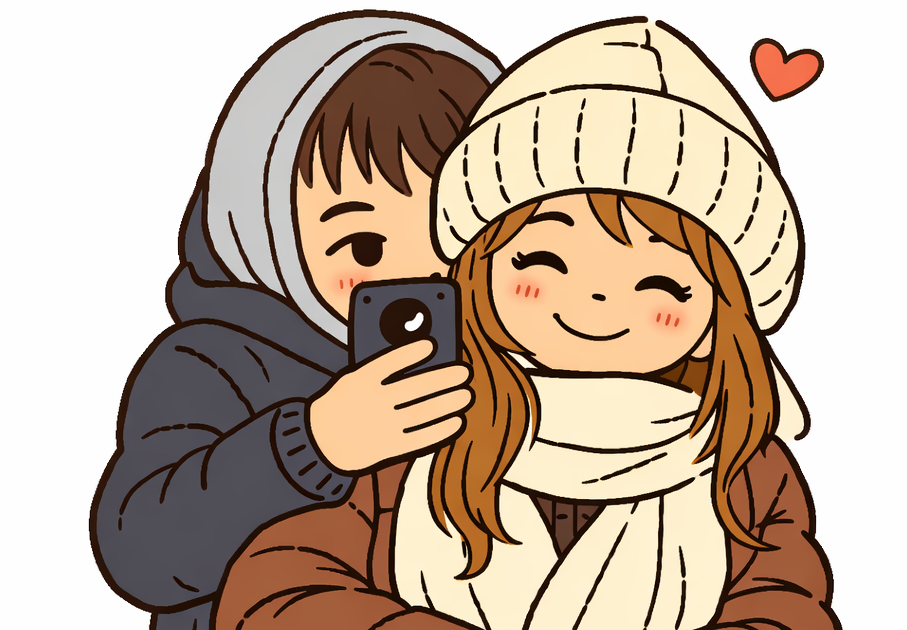
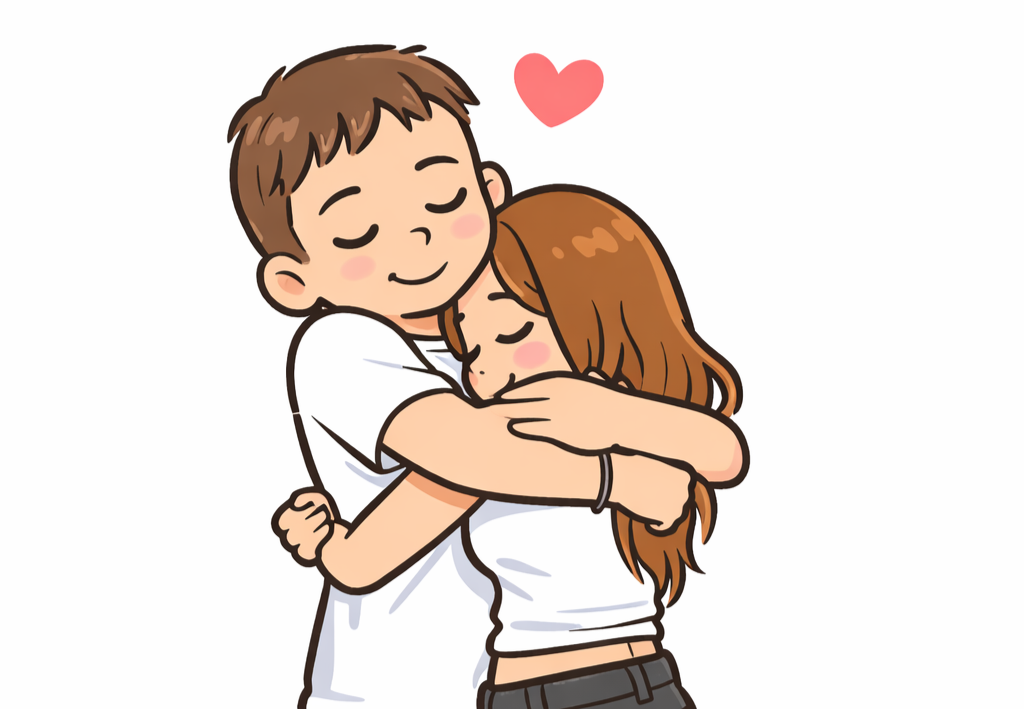
Add spring theme and reminders page with personal messages
Made-with: Cursor

diff --git a/style.css b/style.css
@@ -7,16 +7,16 @@
 }
 
 :root {
-  --cream: #fdf8f3;
-  --paper: #faf5ef;
-  --paper-envelope: #f5ebe3;
-  --ink: #3d2c29;
-  --ink-soft: #6b534e;
-  --accent: #c97b84;
-  --accent-light: #e8b4bc;
-  --shadow: rgba(61, 44, 41, 0.08);
-  --shadow-strong: rgba(61, 44, 41, 0.12);
-  --envelope-border: rgba(61, 44, 41, 0.14);
+  --cream: #f2fbf4;
+  --paper: #ebf8ee;
+  --paper-envelope: #d8f0dc;
+  --ink: #1e3d1e;
+  --ink-soft: #426042;
+  --accent: #5aab5a;
+  --accent-light: #b8e4b8;
+  --shadow: rgba(30, 61, 30, 0.08);
+  --shadow-strong: rgba(30, 61, 30, 0.12);
+  --envelope-border: rgba(30, 61, 30, 0.15);
 }
 
 html {
@@ -31,8 +31,9 @@ body {
   color: var(--ink);
   background: var(--cream);
   background-image:
-    radial-gradient(ellipse 120% 80% at 50% 0%, var(--accent-light) 0%, transparent 50%),
-    radial-gradient(ellipse 80% 50% at 80% 90%, rgba(201, 123, 132, 0.15) 0%, transparent 50%);
+    radial-gradient(ellipse 120% 70% at 50% 0%, #c8efd4 0%, transparent 55%),
+    radial-gradient(ellipse 70% 50% at 10% 100%, rgba(90, 171, 90, 0.15) 0%, transparent 50%),
+    radial-gradient(ellipse 60% 40% at 95% 85%, rgba(255, 220, 80, 0.13) 0%, transparent 50%);
   display: flex;
   align-items: center;
   justify-content: center;
@@ -102,8 +103,21 @@ body {
   width: 200px;
   height: 130px;
   margin-bottom: 2rem;
-  filter: drop-shadow(0 8px 24px rgba(61, 44, 41, 0.18));
+  filter: drop-shadow(0 8px 24px rgba(30, 61, 30, 0.18));
 }
+
+.closed-envelope::before,
+.closed-envelope::after {
+  content: '🌿';
+  position: absolute;
+  font-size: 1.1rem;
+  opacity: 0.55;
+  pointer-events: none;
+  bottom: 0.3rem;
+}
+
+.closed-envelope::before { left: -1.4rem; transform: rotate(20deg); }
+.closed-envelope::after  { right: -1.4rem; transform: rotate(-20deg) scaleX(-1); }
 
 .closed-envelope-body {
   position: absolute;
@@ -111,7 +125,7 @@ body {
   left: 0;
   right: 0;
   height: 100px;
-  background: linear-gradient(160deg, #faf2eb 0%, var(--paper-envelope) 50%, #ede0d4 100%);
+  background: linear-gradient(160deg, #e8f8ea 0%, var(--paper-envelope) 50%, #c4e8c8 100%);
   border: 1px solid var(--envelope-border);
   border-bottom: none;
   border-radius: 8px 8px 0 0;
@@ -129,20 +143,20 @@ body {
   height: 0;
   border-left: 100px solid transparent;
   border-right: 100px solid transparent;
-  border-top: 55px solid #ede0d4;
-  filter: drop-shadow(0 3px 10px rgba(61, 44, 41, 0.15));
+  border-top: 55px solid #c4e8c8;
+  filter: drop-shadow(0 3px 10px rgba(30, 61, 30, 0.15));
   box-sizing: content-box;
 }
 
 .closed-envelope-flap::before {
-  content: '♥';
+  content: '🌿';
   position: absolute;
   top: -48px;
   left: 50%;
   transform: translateX(-50%);
   font-size: 1.25rem;
   color: var(--accent);
-  text-shadow: 0 1px 2px rgba(201, 123, 132, 0.4);
+  text-shadow: 0 1px 2px rgba(90, 171, 90, 0.4);
 }
 
 .step-1-text {
@@ -164,13 +178,13 @@ body {
   border-radius: 999px;
   padding: 0.75rem 2rem;
   cursor: pointer;
-  box-shadow: 0 4px 20px rgba(201, 123, 132, 0.35);
+  box-shadow: 0 4px 20px rgba(90, 171, 90, 0.35);
   transition: transform 0.2s ease, box-shadow 0.2s ease;
 }
 
 .btn-next:hover {
   transform: translateY(-2px);
-  box-shadow: 0 6px 24px rgba(201, 123, 132, 0.45);
+  box-shadow: 0 6px 24px rgba(90, 171, 90, 0.45);
 }
 
 .btn-next:active {
@@ -262,11 +276,32 @@ body {
   display: none;
 }
 
-/* Кнопка «Свернуть в конверт» (шаг 3) */
-.letter-back-wrap {
-  text-align: center;
+/* Кнопки внизу письма (шаг 3) */
+.letter-actions {
+  display: flex;
+  flex-direction: column;
+  align-items: center;
+  gap: 0.25rem;
   margin-top: 1.25rem;
-  margin-bottom: 0;
+}
+
+.btn-open-when {
+  font-family: 'Cormorant Garamond', serif;
+  font-size: 1.05rem;
+  font-style: italic;
+  font-weight: 600;
+  color: var(--accent);
+  background: none;
+  border: 1.5px solid var(--accent-light);
+  border-radius: 999px;
+  padding: 0.5rem 1.4rem;
+  cursor: pointer;
+  transition: background 0.2s ease, color 0.2s ease;
+}
+
+.btn-open-when:hover {
+  background: var(--accent-light);
+  color: var(--ink);
 }
 
 .btn-back {
@@ -461,6 +496,76 @@ body {
 @keyframes pulse {
   0%, 100% { transform: scale(1); opacity: 1; }
   50% { transform: scale(1.15); opacity: 0.85; }
+}
+
+/* =====================================================
+   ШАГ 4: НАПОМИНАЛКИ
+   ===================================================== */
+
+.step-4.is-visible {
+  display: flex;
+  flex-direction: column;
+  align-items: center;
+  justify-content: center;
+  min-height: 60vh;
+  text-align: center;
+}
+
+.reminders-page {
+  display: flex;
+  flex-direction: column;
+  align-items: center;
+  gap: 1.5rem;
+  width: 100%;
+  padding: 1rem 0;
+}
+
+.reminder-card {
+  width: 100%;
+  min-height: 160px;
+  background: var(--paper);
+  border-radius: 14px;
+  border: 1px solid var(--envelope-border);
+  box-shadow: 0 6px 28px var(--shadow);
+  display: flex;
+  align-items: center;
+  justify-content: center;
+  padding: 2rem 1.75rem;
+}
+
+.reminder-text {
+  font-family: 'Cormorant Garamond', serif;
+  font-size: 1.35rem;
+  font-style: italic;
+  line-height: 1.6;
+  color: var(--ink);
+  transition: opacity 0.3s ease;
+}
+
+.reminder-text.is-fading {
+  opacity: 0;
+}
+
+.btn-reminder-next {
+  font-family: 'Nunito', sans-serif;
+  font-size: 0.95rem;
+  font-weight: 600;
+  color: var(--ink-soft);
+  background: none;
+  border: 1.5px solid var(--envelope-border);
+  border-radius: 999px;
+  padding: 0.5rem 1.4rem;
+  cursor: pointer;
+  transition: border-color 0.2s, color 0.2s;
+}
+
+.btn-reminder-next:hover {
+  border-color: var(--accent);
+  color: var(--accent);
+}
+
+#btn-back-from-ow {
+  margin-top: 0.25rem;
 }
 
 /* Адаптив */

diff --git a/script.js b/script.js
@@ -70,13 +70,13 @@
           var word = (n % 10 === 1 && n % 100 !== 11) ? 'раз' : (n % 10 >= 2 && n % 10 <= 4 && (n % 100 < 10 || n % 100 >= 20)) ? 'раза' : 'раз';
           el.textContent = 'Ты открыла это письмо ' + n + ' ' + word;
         }
-        if (activeTheme) launchConfetti();
+        launchConfetti();
       }
     }
   }
 
   function launchConfetti() {
-    var petals = ['🌸', '🌷', '🌼', '🌺', '✿'];
+    var petals = (activeTheme && activeTheme.floatSymbols) ? activeTheme.floatSymbols : ['🌿', '🍃', '🌼', '☀', '🦋'];
     for (var i = 0; i < 32; i++) {
       (function () {
         var petal = document.createElement('span');
@@ -101,6 +101,62 @@
   if (btnBack) {
     btnBack.addEventListener('click', function () {
       goToStep('1');
+    });
+  }
+
+  var btnBackFromOw = document.getElementById('btn-back-from-ow');
+  if (btnBackFromOw) {
+    btnBackFromOw.addEventListener('click', function () {
+      goToStep('3');
+    });
+  }
+
+  // =====================================================
+  // Напоминалки (шаг 4) — ✏ ТЕКСТЫ МОЖНО МЕНЯТЬ ЗДЕСЬ
+  // =====================================================
+  var REMINDERS = [
+    'Я горжусь тобой. Правда.',
+    'Мне нравится всё в тебе.',
+    'Я всегда рядом. Даже на расстоянии.',
+    'Помни - я люблю тебя! Очень-очень сильно.',
+    'Ты важна. Для меня - особенно.',
+    'Ты самая прекрасная, красивая, симпатичная, обворожаблная',
+    'Ты - самое яркое, милое, чудесное солнышко в моей жизни.',
+    'Я в тебя верю. Всегда.',
+    'Ты делаешь мою жизнь лучше. Спасибо.',
+    'Хочу обнять тебя прямо сейчас.',
+    'Очень скучаю по тебе.',
+    'Дорожу тобой и ценю.',
+    'Я очень рад и по настоящему счастлив, что ты есть у меня.',
+  ];
+
+  var reminderEl = document.getElementById('reminder-text');
+  var btnNext = document.getElementById('btn-reminder-next');
+  var reminderIdx = 0;
+
+  function showReminder(idx) {
+    if (!reminderEl) return;
+    reminderEl.classList.add('is-fading');
+    setTimeout(function () {
+      reminderEl.textContent = REMINDERS[idx % REMINDERS.length];
+      reminderEl.classList.remove('is-fading');
+    }, 280);
+  }
+
+  // Показываем первую при переходе на шаг 4
+  var origGoToStep = goToStep;
+  goToStep = function (nextStep) {
+    origGoToStep(nextStep);
+    if (nextStep === '4') {
+      reminderIdx = Math.floor(Math.random() * REMINDERS.length);
+      if (reminderEl) reminderEl.textContent = REMINDERS[reminderIdx];
+    }
+  };
+
+  if (btnNext) {
+    btnNext.addEventListener('click', function () {
+      reminderIdx = (reminderIdx + 1) % REMINDERS.length;
+      showReminder(reminderIdx);
     });
   }
 
@@ -160,8 +216,8 @@
   // Рисуем символы на фоне (сердечки или цветочки — зависит от темы)
   var container = document.querySelector('.hearts');
   if (container) {
-    var symbols = (activeTheme && activeTheme.floatSymbols) ? activeTheme.floatSymbols : ['♥'];
-    var count = (activeTheme && activeTheme.floatCount) ? activeTheme.floatCount : 28;
+    var symbols = (activeTheme && activeTheme.floatSymbols) ? activeTheme.floatSymbols : ['🌿', '🍃', '🌱', '🌼', '☀', '🦋'];
+    var count = (activeTheme && activeTheme.floatCount) ? activeTheme.floatCount : 32;
     for (var i = 0; i < count; i++) {
       var heart = document.createElement('span');
       heart.className = 'heart-float';

diff --git a/index.html b/index.html
@@ -7,7 +7,7 @@
   <link rel="icon" href="favicon.svg" type="image/svg+xml">
   <link rel="apple-touch-icon" href="favicon.svg">
   <link rel="manifest" href="manifest.json">
-  <meta name="theme-color" content="#c97b84">
+  <meta name="theme-color" content="#5aab5a">
   <link rel="preconnect" href="https://fonts.googleapis.com">
   <link rel="preconnect" href="https://fonts.gstatic.com" crossorigin>
   <link href="https://fonts.googleapis.com/css2?family=Cormorant+Garamond:ital,wght@0,400;0,600;1,400&family=Nunito:wght@300;400;600&display=swap" rel="stylesheet">
@@ -60,7 +60,7 @@
 
         <section class="message">
           <p>
-            Я сделал для тебя эту страничку — маленький подарок, который всегда будет в интернете.
+            Я сделал для тебя эту страничку - маленький подарок, который всегда будет в интернете.
           </p>
           <p>
             Ты делаешь каждый мой день теплее. Спасибо, что ты есть.
@@ -76,10 +76,26 @@
         </footer>
       </div>
     </div>
-      <p class="letter-back-wrap">
+      <div class="letter-actions">
+        <button type="button" class="btn-open-when" data-next="4">и ещё кое-что →</button>
         <button type="button" class="btn-back" id="btn-back-to-envelope">Свернуть в конверт</button>
-      </p>
+      </div>
     </div>
+
+    <!-- Шаг 4: Напоминалки -->
+    <div class="step step-4" data-step="4">
+      <div class="reminders-page">
+
+        <div class="reminder-card">
+          <p class="reminder-text" id="reminder-text"></p>
+        </div>
+
+        <button type="button" class="btn-reminder-next" id="btn-reminder-next">ещё →</button>
+
+        <button type="button" class="btn-back" id="btn-back-from-ow">← к письму</button>
+      </div>
+    </div>
+
   </main>
 
   <script src="script.js"></script>
